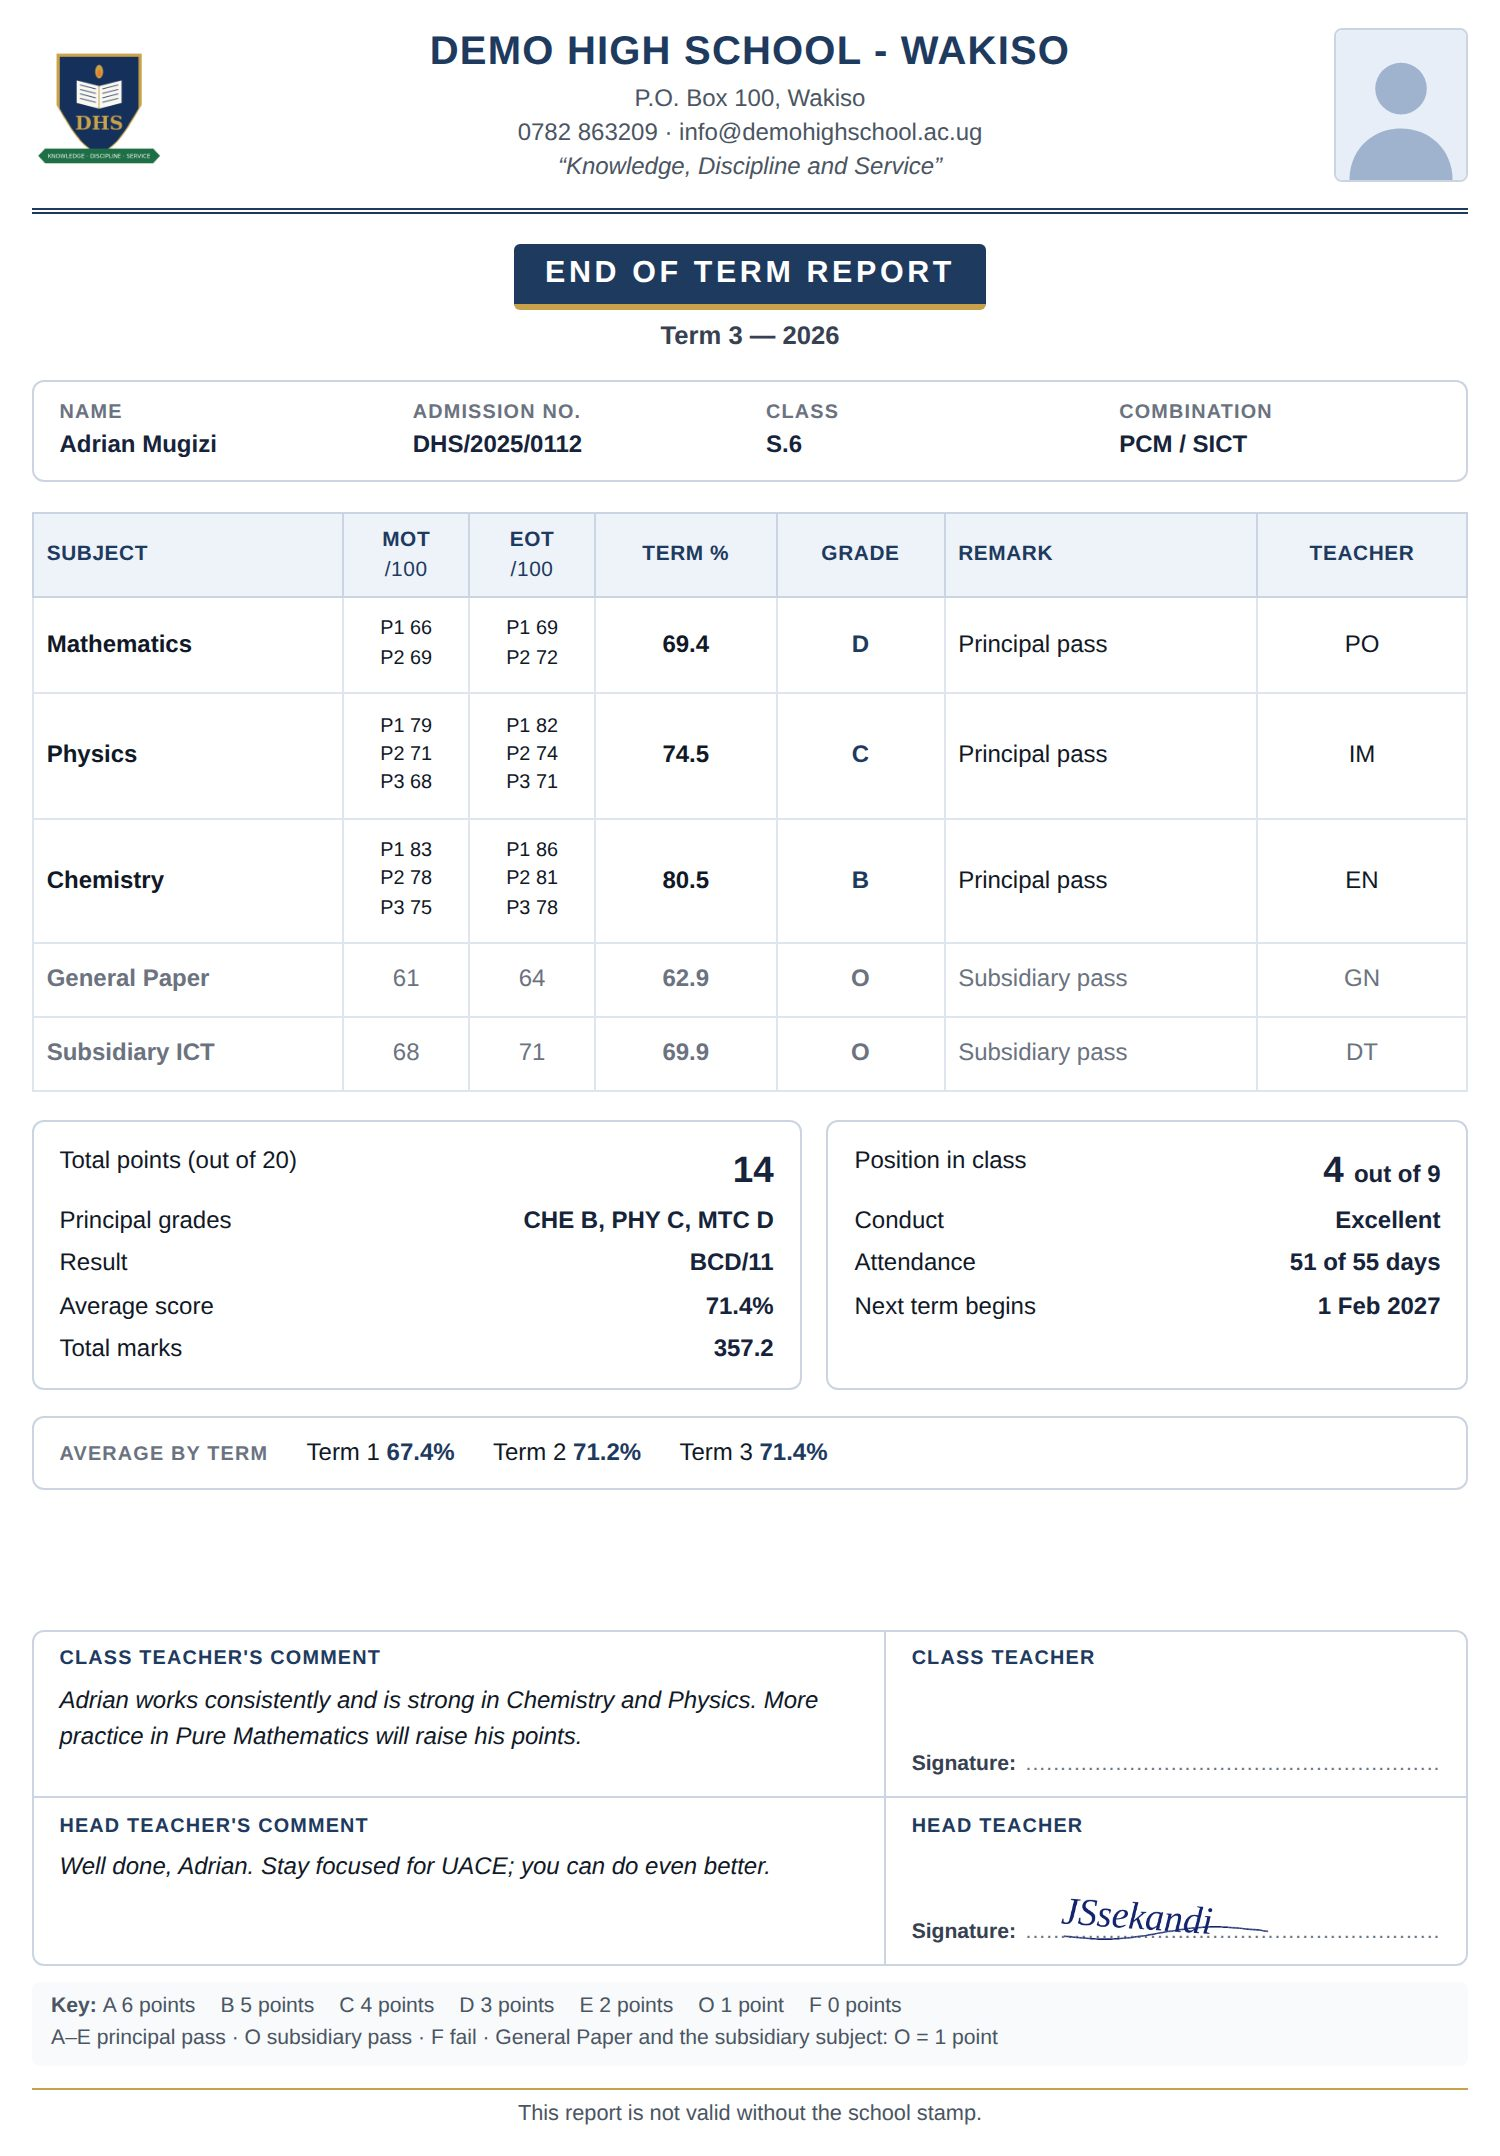
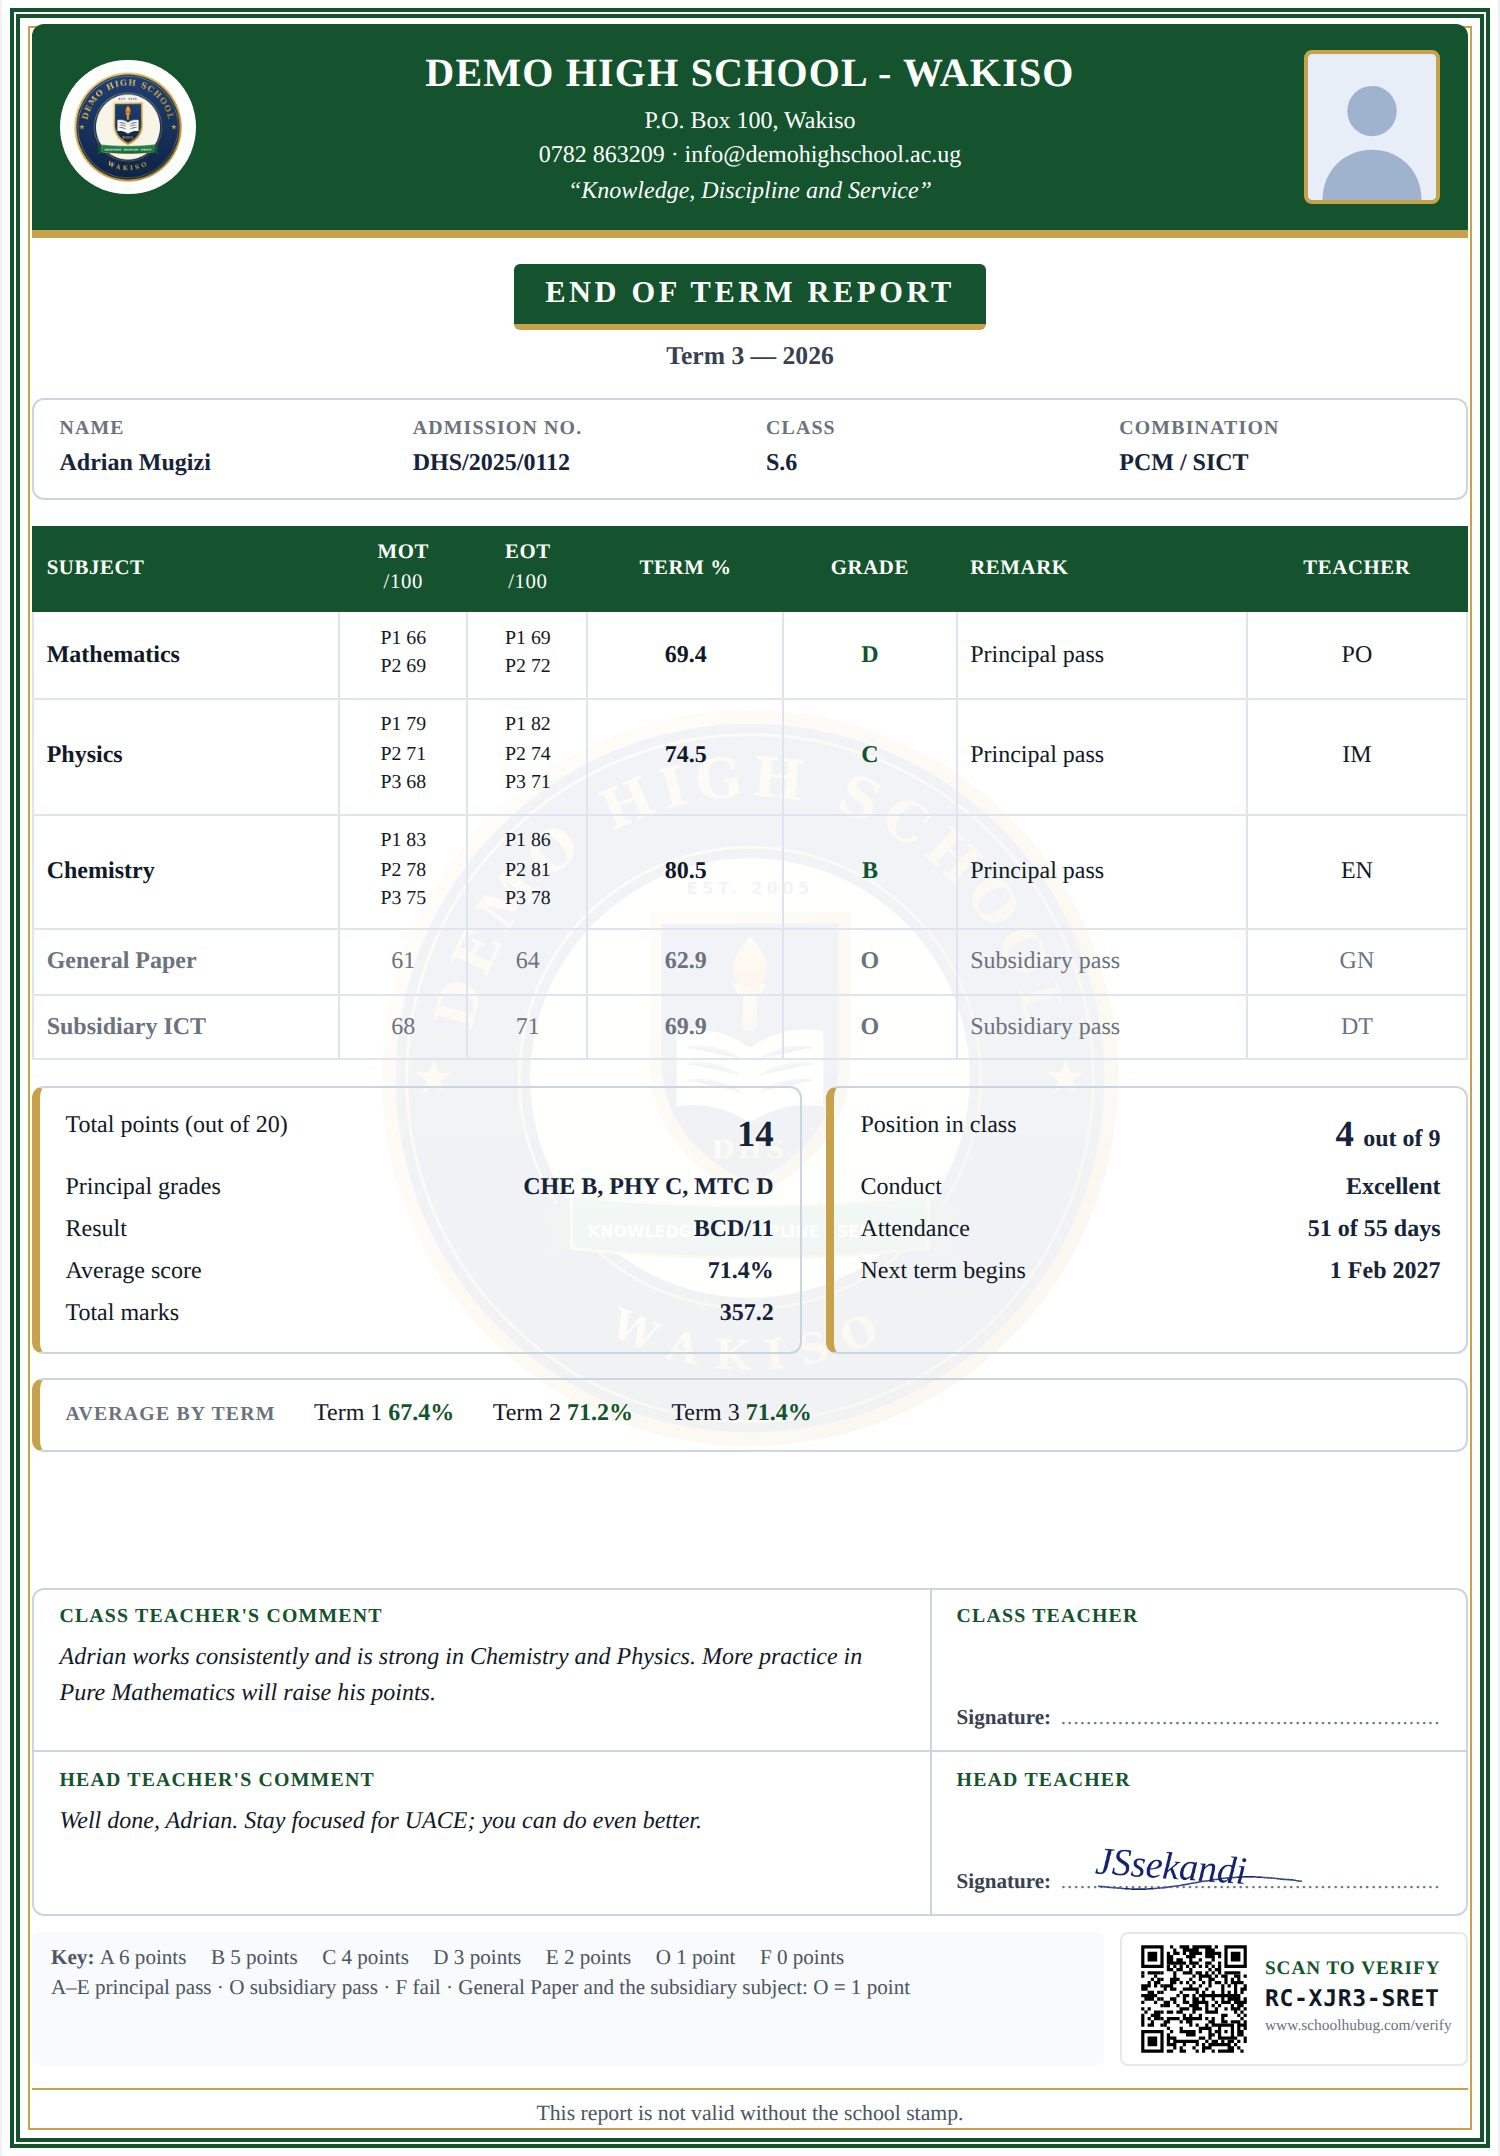
Website: report cards with the school's badge, QR code and two designs
The two report cards on the home page now show the new Demo High School
badge and the QR code that lets anyone check a card is genuine. The
O-Level card is in the classic navy design and the A-Level card in the
modern green design with an ornate border and a faint crest behind the
page, to show that every school's cards are customised: crest, colours,
layout and the parts printed. A caption under each card says which
design it is.

Claude-Session: https://claude.ai/code/session_01F8zZZK9xVNrKWwDNGHiypa

diff --git a/resources/views/site/sections/modules.blade.php b/resources/views/site/sections/modules.blade.php
@@ -45,12 +45,14 @@
                             <li>{!! $check !!} Activities of Integration make up the 20% school-based mark</li>
                             <li>{!! $check !!} Grades A–E: Exceptional, Outstanding, Satisfactory, Basic, Elementary</li>
                             <li>{!! $check !!} Positions, attendance, comments, promotion and the head teacher's signature</li>
+                            <li>{!! $check !!} A QR code on every card, so anyone can check it is genuine</li>
                         </ul>
                     </div>
                     <div class="show-media">
                         <a class="rc-shot" href="{{ asset('images/site/report-card-o-level.jpg') }}" target="_blank" rel="noopener" title="Open the full report card">
                             <img src="{{ asset('images/site/report-card-o-level.jpg') }}" alt="An O-Level report card printed by SchoolHub: subjects, CA and End of Term marks, grades A–E with achievement, position, attendance, comments and the head teacher&rsquo;s signature" width="1500" height="2156" loading="lazy">
                         </a>
+                        <p class="rc-caption">Classic design · navy and gold · QR code to verify</p>
                     </div>
                 </div>
 
@@ -63,12 +65,14 @@
                             <li>{!! $check !!} Subject combinations, with General Paper and a subsidiary</li>
                             <li>{!! $check !!} Principal grades A–F worked out from each paper, by UNEB's rules</li>
                             <li>{!! $check !!} Points out of 20 and the result for every learner</li>
+                            <li>{!! $check !!} Customised for your school: your crest, colours, layout and the parts you print</li>
                         </ul>
                     </div>
                     <div class="show-media">
                         <a class="rc-shot" href="{{ asset('images/site/report-card-a-level.jpg') }}" target="_blank" rel="noopener" title="Open the full report card">
                             <img src="{{ asset('images/site/report-card-a-level.jpg') }}" alt="An A-Level report card printed by SchoolHub: paper marks, principal grades, points out of 20, result, comments and the head teacher&rsquo;s signature" width="1500" height="2156" loading="lazy">
                         </a>
+                        <p class="rc-caption">Modern design · green, gold border and faint crest · the same school, a different look</p>
                     </div>
                 </div>
 

diff --git a/resources/views/site/partials/styles.blade.php b/resources/views/site/partials/styles.blade.php
@@ -176,6 +176,7 @@
         .rc-shot { display: block; border-radius: .75rem; overflow: hidden; background: #fff; border: 1px solid var(--slate-200); box-shadow: var(--shadow-sm); transition: transform .2s, box-shadow .2s; }
         .rc-shot:hover { transform: translateY(-2px); box-shadow: 0 18px 40px -18px rgba(15, 23, 42, .35); }
         .rc-shot img { display: block; width: 100%; height: auto; }
+        .rc-caption { margin: .625rem 0 0; text-align: center; font-size: .8125rem; color: var(--slate-500); }
 
         /* Steps */
         .steps { display: grid; grid-template-columns: repeat(3, 1fr); gap: 1.5rem; counter-reset: step; }
